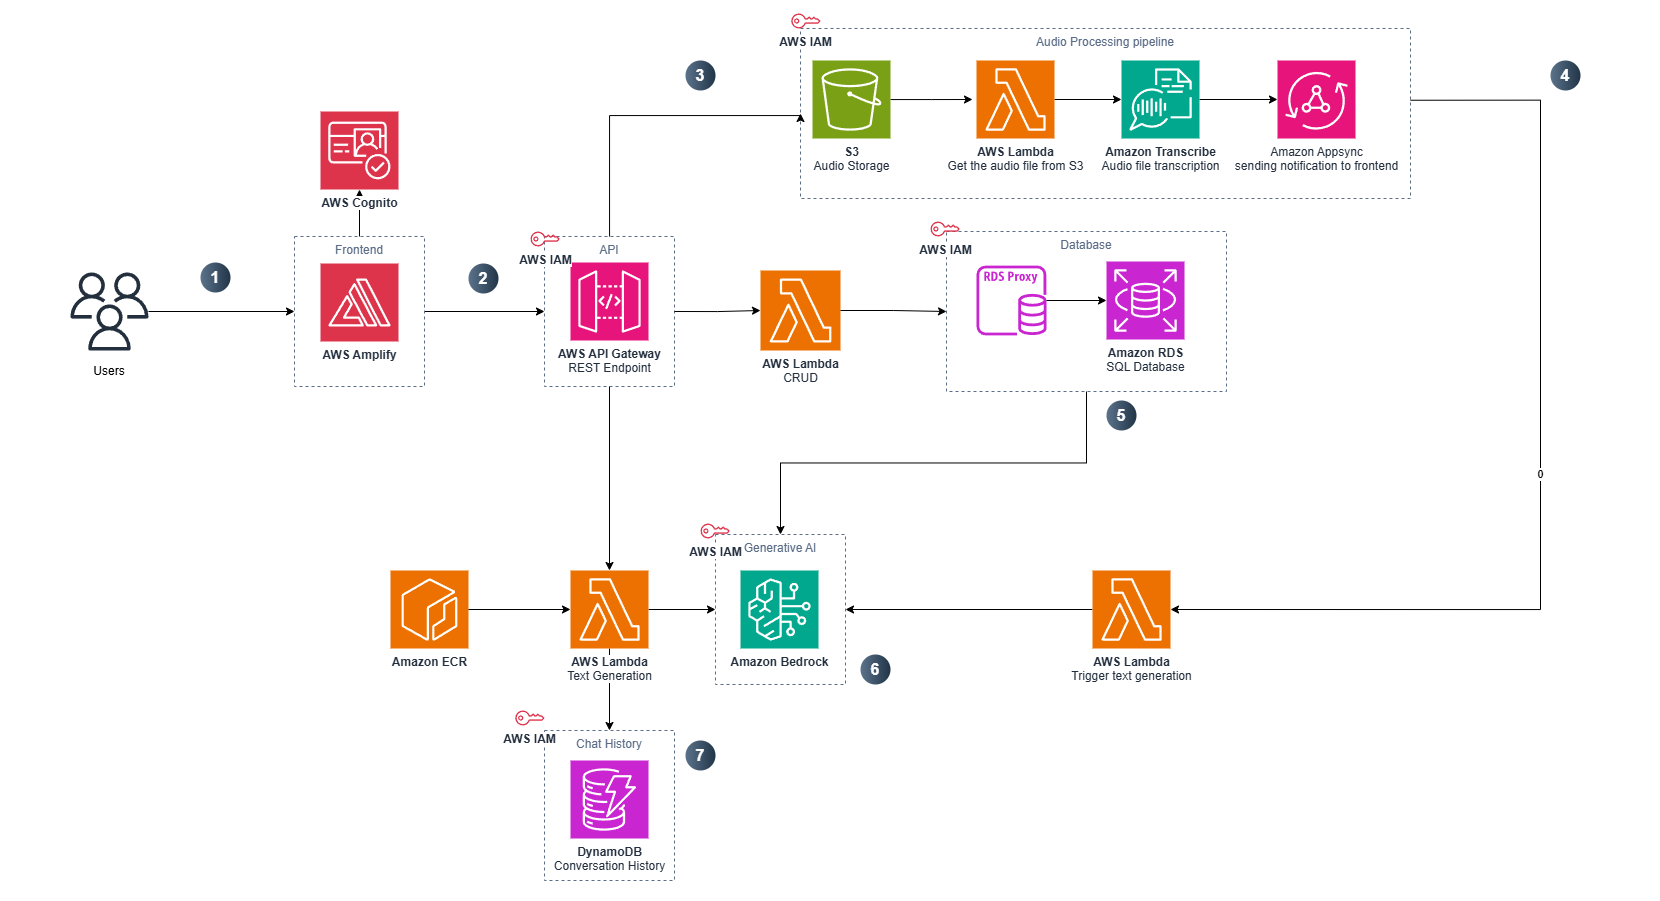
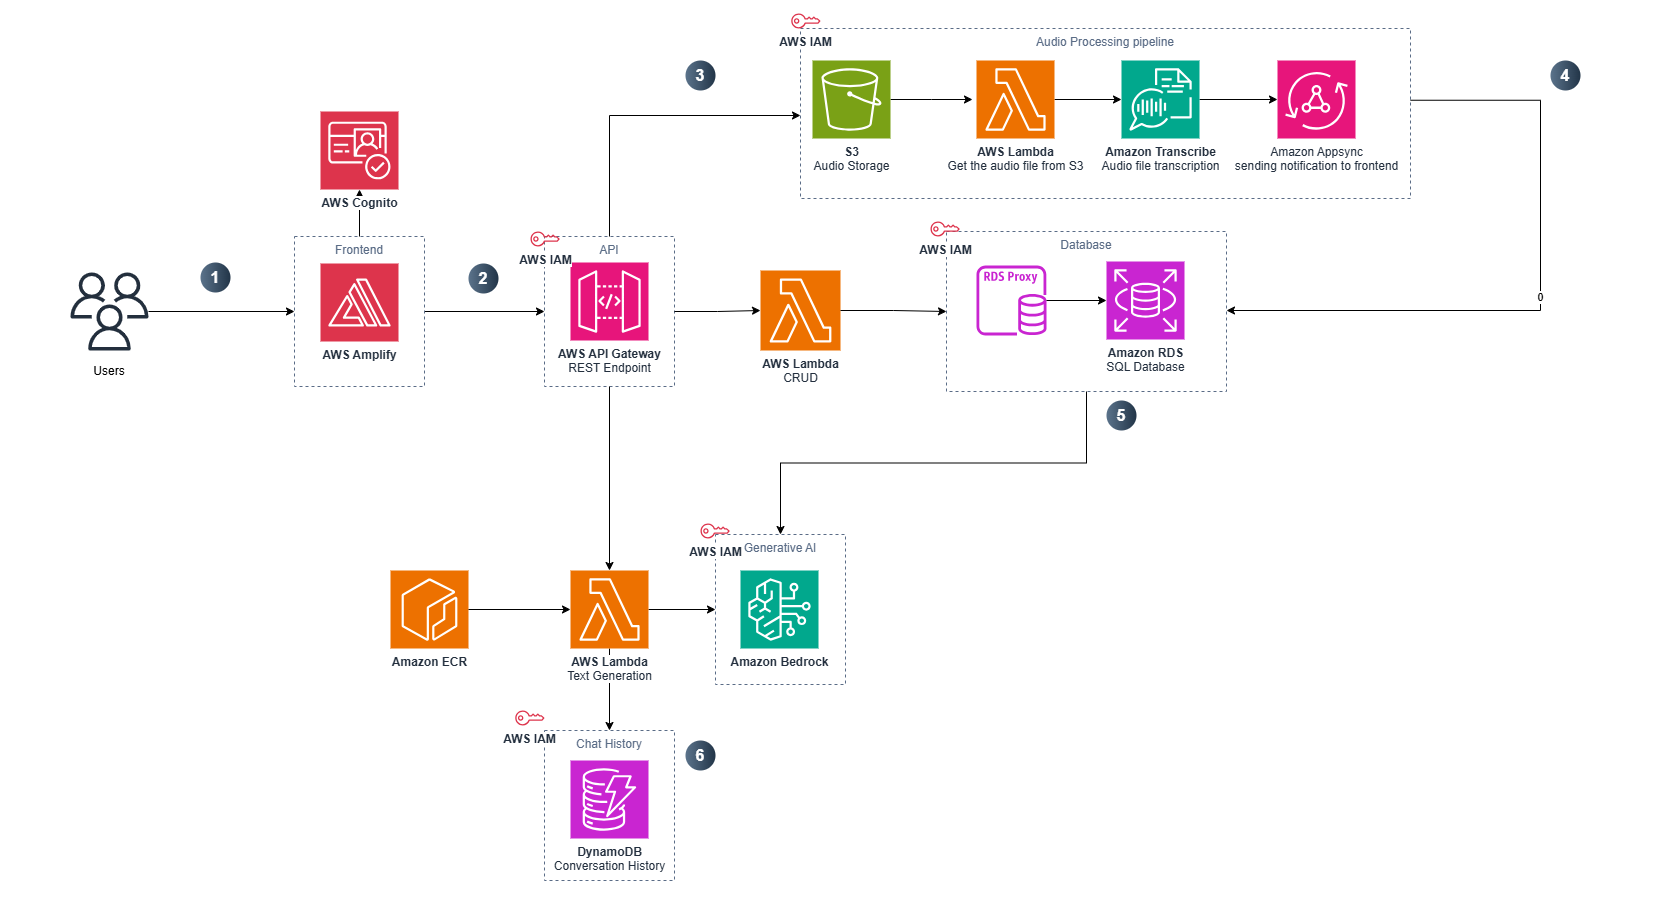
updated architecture diagram

diff --git a/docs/architectureDeepDive.md b/docs/architectureDeepDive.md
@@ -6,11 +6,10 @@
 
 1. 	Users access the application through a React frontend hosted on AWS Amplify. AWS Cognito handles user authentication, ensuring that only authorized users can log in and interact with the platform.
 2. 	The frontend communicates with backend services by sending secure API requests through AWS API Gateway. AWS IAM policies are used to authorize and manage access between the frontend and backend Lambda functions.
-3. 	When a user uploads an audio file, it is stored in an S3 bucket. An AWS Lambda function monitors the bucket, retrieves the audio file, and prepares it for transcription processing.
-4.	Amazon Transcribe processes the uploaded audio file and converts it into text. After the transcription is complete, Amazon AppSync sends a real-time WebSocket notification back to the frontend to update the user interface.
-5.	Metadata related to the audio file and its transcription, such as timestamps and user associations, is securely stored in an Amazon RDS database via an RDS Proxy to optimize database connections.
-6.	For AI-powered text generation (e.g., summarizations, conversation generation), AWS Lambda triggers Amazon Bedrock, which runs foundation models like Claude, Titan, or Llama to generate relevant outputs.
-7.	The outputs and conversation history are stored in Amazon DynamoDB. This provides fast retrieval and scalability, allowing users to view past interactions and summaries efficiently.
+3. 	When a user uploads an audio file, it is stored in an S3 bucket. An AWS Lambda function monitors the bucket, retrieves the audio file, and prepares it for transcription processing. Amazon Transcribe processes the uploaded audio file and converts it into text. After the transcription is complete, Amazon AppSync sends a real-time WebSocket notification back to the frontend to update the user interface.
+4.	Metadata related to the audio file and its transcription, such as timestamps and user associations, is securely stored in an Amazon RDS database via an RDS Proxy to optimize database connections.
+5.	For AI-powered text generation (e.g., summarizations, title generation), AWS Lambda triggers Amazon Bedrock, which runs the Llama 3 model after retrieving relevant information from Amazon RDS database.
+7.	The conversation history are stored in Amazon DynamoDB. This provides fast retrieval and scalability, allowing users to view past interactions efficiently.
 
 ### Database Schema
 
